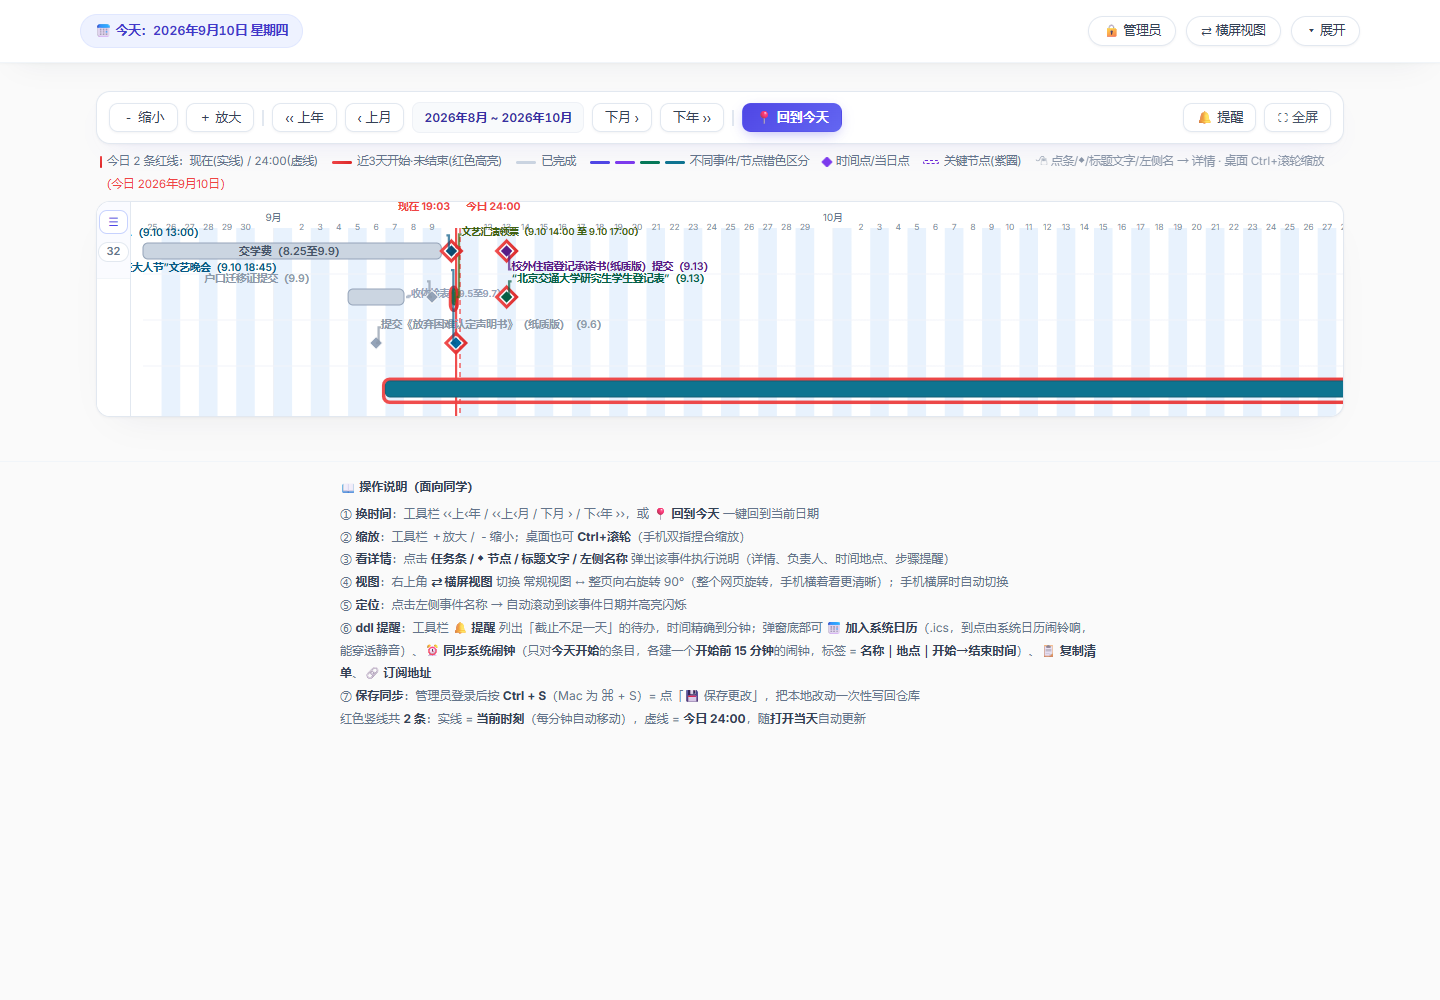
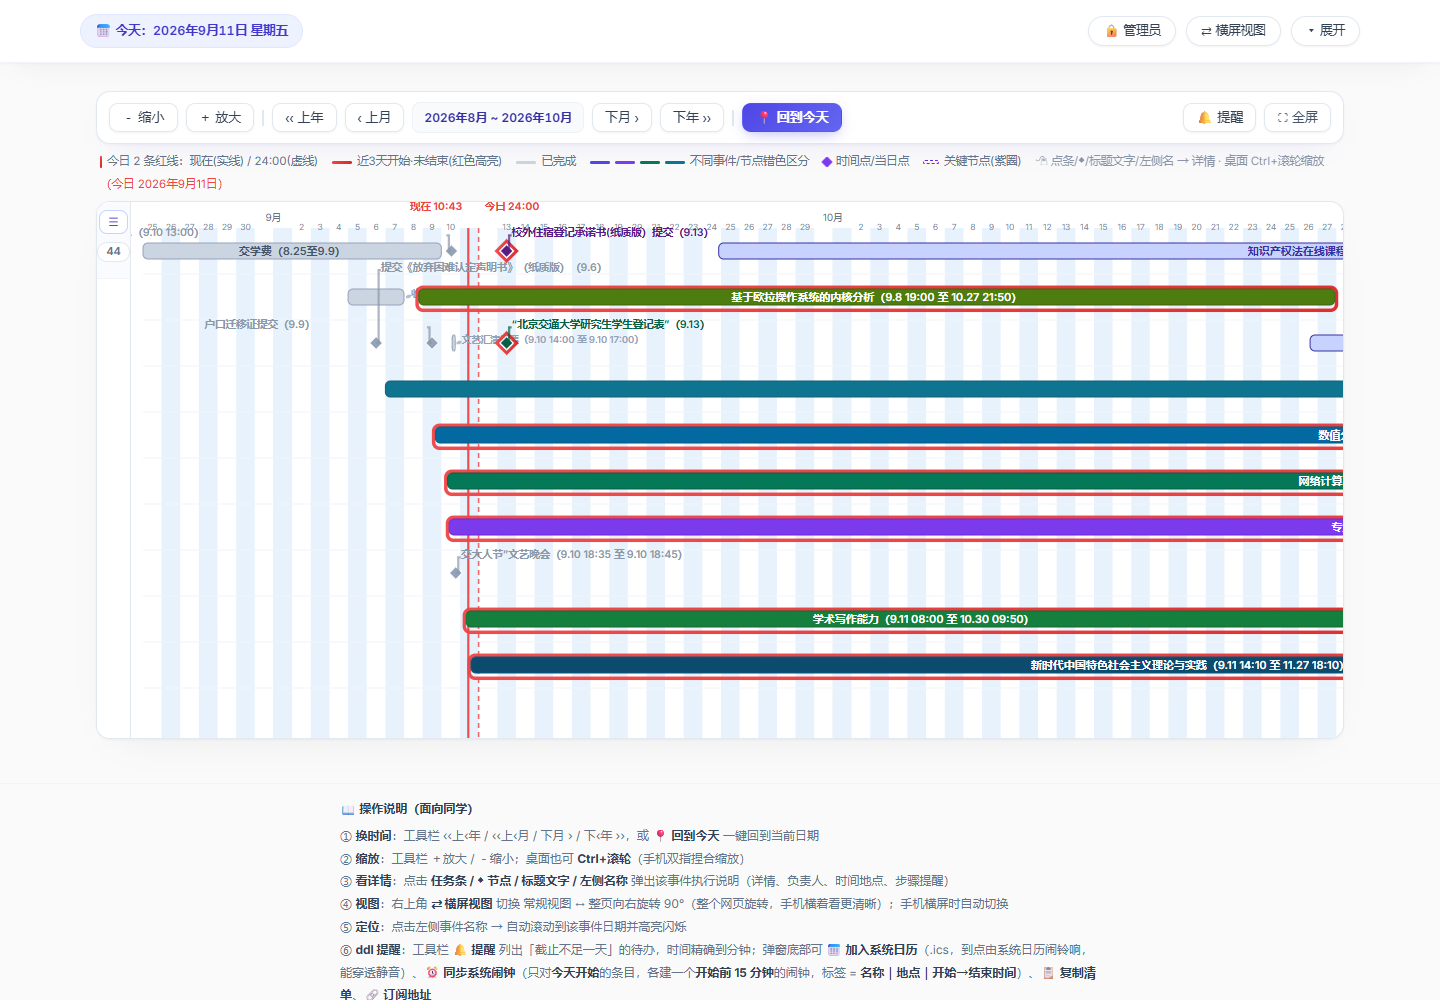
feat: 加入 2026 秋季学期课表（12 条课程事件）+ 课程表与待办提醒链路隔离（v29）
数据（9.7 为第 1 教学周周一；第 N 周周一 = 9.7 + (N−1)×7 天）：
- gantt.md 新增 section 课程表(2026秋季学期)，12 条 k1…k12，
  每门课按「星期几 + 节次」拆条，连堂的第 4-5 节 / 第 6-7 节合为一条，条形跨越上课周次。
- js/events.js 新增对应 12 条详情（课程号+课序号 / 时间要求 / 地点 / 任课教师 / 备注）。
- 课表原文中「周一第 6 节为第 09-11 周、第 7 节为第 09-10 周」的不一致按原文保留，未擅自修正，
  已在两条 tips 里注明。

隔离（课程表不是「截止待办」）：
- tools/build-deadlines.js 与 js/viewer.js 各加 isCourseTask()：section 名含「课程表」的条目
  不进 deadlines.json / deadlines.ics / 页面「🔔 提醒」/ 通道 C 闹钟。否则会产出
  「⏰ 截止：<课程名>」（ics 侧被压成结束前 30 分钟的假截止），并淹没今日闹钟清单。
  过滤口径两处必须同时改（已写入 README 与 gantt.md 注释）。

测试：
- test/unit.js：section 数 8→9；新增 [9b] 课程表与提醒链路隔离（3 项）；
  blocksOf 断言改为「班务 7 条 + 课表 12 条」；
  顺手修掉 3 处「数据过期式假红」——b2/b6 的断言原先钉死在会过期的条目上
  （b2 出窗、b6 被宽限期淘汰即假红），改为数据驱动／条件式。
- node test/unit.js：14 节 106 项全过；tools/verify-ui.js：12 节 84 项全过（本地 8899）。

diff --git a/js/events.js b/js/events.js
@@ -129,6 +129,178 @@
       sampleUrl: "",
       owners: owners([])
     },
+    // ===== 2026 秋季学期课程表（与 gantt.md 的 section 课程表 一一对应） =====
+    // 口径：教学周第 1 周周一 = 2026-09-07；「第 N 周周一」= 9.7 + (N−1)×7 天。
+    // 每条 = 一门课的一个固定时段（星期几 + 节次），条形跨越该时段的上课周次。
+    // 课程条目不进入待办提醒链路（deadlines.json / deadlines.ics / 页面「🔔 提醒」）。
+    k1: {
+      short: "数据科学与知识工程(周二第1节)",
+      who: "选修本课程的同学（课程号 M510028B，课序号 02）",
+      when: "每周二 第1节 08:00-09:50；教学周 第9-16周（首次 11.03，末次 12.22）",
+      where: "海淀西校区 · 逸夫教学楼 YF305",
+      files: "任课教师：沈孟如",
+      steps: [],
+      stepImg: "",
+      attachments: [],
+      tips: "教学周第1周自 9.7（周一）起算；法定节假日停课/调课以研究生院通知为准。",
+      tipsImg: "",
+      sampleUrl: "",
+      owners: owners([])
+    },
+    k2: {
+      short: "数据科学与知识工程(周三第6节)",
+      who: "选修本课程的同学（课程号 M510028B，课序号 02）",
+      when: "每周三 第6节 19:00-20:50；教学周 第9-16周（首次 11.04，末次 12.23）",
+      where: "海淀西校区 · 逸夫教学楼 YF305",
+      files: "任课教师：沈孟如",
+      steps: [],
+      stepImg: "",
+      attachments: [],
+      tips: "教学周第1周自 9.7（周一）起算；法定节假日停课/调课以研究生院通知为准。",
+      tipsImg: "",
+      sampleUrl: "",
+      owners: owners([])
+    },
+    k3: {
+      short: "网络计算与边缘智能(周四第1节)",
+      who: "选修本课程的同学（课程号 M510029B，课序号 02）",
+      when: "每周四 第1节 08:00-09:50；教学周 第1-16周（首次 09.10，末次 12.24）",
+      where: "海淀西校区 · 思源楼 SY309",
+      files: "任课教师：高博",
+      steps: [],
+      stepImg: "",
+      attachments: [],
+      tips: "教学周第1周自 9.7（周一）起算；法定节假日停课/调课以研究生院通知为准。",
+      tipsImg: "",
+      sampleUrl: "",
+      owners: owners([])
+    },
+    k4: {
+      short: "学术写作能力(周五第1节)",
+      who: "选修本课程的同学（课程号 C410001B，课序号 01）",
+      when: "每周五 第1节 08:00-09:50；教学周 第1-8周（首次 09.11，末次 10.30）",
+      where: "海淀东校区 · 东区一教 DQ505",
+      files: "任课教师：刘海明",
+      steps: [],
+      stepImg: "",
+      attachments: [],
+      tips: "教学周第1周自 9.7（周一）起算；法定节假日停课/调课以研究生院通知为准。",
+      tipsImg: "",
+      sampleUrl: "",
+      owners: owners([])
+    },
+    k5: {
+      short: "专业英语(周四第2节)",
+      who: "选修本课程的同学（课程号 C410003B，课序号 01）",
+      when: "每周四 第2节 10:10-12:00；教学周 第1-16周（首次 09.10，末次 12.24）",
+      where: "海淀西校区 · 逸夫教学楼 YF411",
+      files: "任课教师：马雨萱",
+      steps: [],
+      stepImg: "",
+      attachments: [],
+      tips: "教学周第1周自 9.7（周一）起算；法定节假日停课/调课以研究生院通知为准。",
+      tipsImg: "",
+      sampleUrl: "",
+      owners: owners([])
+    },
+    k6: {
+      short: "自然辩证法(周一第4-5节)",
+      who: "选修本课程的同学（课程号 A209007B，课序号 08）",
+      when: "每周一 第4节 14:10-16:00、第5节 16:20-18:10（连堂）；教学周 第8-13周（首次 10.26，末次 11.30）",
+      where: "海淀西校区 · 思源楼 SY108",
+      files: "任课教师：赵绪涛",
+      steps: [],
+      stepImg: "",
+      attachments: [],
+      tips: "教学周第1周自 9.7（周一）起算；法定节假日停课/调课以研究生院通知为准。",
+      tipsImg: "",
+      sampleUrl: "",
+      owners: owners([])
+    },
+    k7: {
+      short: "新时代中国特色社会主义理论与实践(周五第4-5节)",
+      who: "选修本课程的同学（课程号 A209006B，课序号 10）",
+      when: "每周五 第4节 14:10-16:00、第5节 16:20-18:10（连堂）；教学周 第1-12周（首次 09.11，末次 11.27）",
+      where: "海淀西校区 · 逸夫教学楼 YF406",
+      files: "任课教师：张瑞霖",
+      steps: [],
+      stepImg: "",
+      attachments: [],
+      tips: "教学周第1周自 9.7（周一）起算；法定节假日停课/调课以研究生院通知为准。",
+      tipsImg: "",
+      sampleUrl: "",
+      owners: owners([])
+    },
+    k8: {
+      short: "数值分析I(周三第5节)",
+      who: "选修本课程的同学（课程号 C308102B，课序号 05）",
+      when: "每周三 第5节 16:20-18:10；教学周 第1-16周（首次 09.09，末次 12.23）",
+      where: "海淀西校区 · 思源楼 SY108",
+      files: "任课教师：孟祥云",
+      steps: [],
+      stepImg: "",
+      attachments: [],
+      tips: "教学周第1周自 9.7（周一）起算；法定节假日停课/调课以研究生院通知为准。",
+      tipsImg: "",
+      sampleUrl: "",
+      owners: owners([])
+    },
+    k9: {
+      short: "基于欧拉操作系统的内核分析(周二第6-7节)",
+      who: "选修本课程的同学（课程号 M510003B，课序号 01）",
+      when: "每周二 第6节 19:00-20:50、第7节 21:00-21:50（连堂）；教学周 第1-8周（首次 09.08，末次 10.27）",
+      where: "海淀东校区 · 东区一教 DQ505",
+      files: "任课教师：张健",
+      steps: [],
+      stepImg: "",
+      attachments: [],
+      tips: "教学周第1周自 9.7（周一）起算；法定节假日停课/调课以研究生院通知为准。",
+      tipsImg: "",
+      sampleUrl: "",
+      owners: owners([])
+    },
+    k10: {
+      short: "基于欧拉操作系统的内核分析(周一第6节)",
+      who: "选修本课程的同学（课程号 M510003B，课序号 01）",
+      when: "每周一 第6节 19:00-20:50；教学周 第9-11周（首次 11.02，末次 11.16）",
+      where: "海淀东校区 · 东区一教 DQ505",
+      files: "任课教师：张健",
+      steps: [],
+      stepImg: "",
+      attachments: [],
+      tips: "课表原文：周一第6节为第09-11周，同一天第7节为第09-10周（原文如此，未作改动）。",
+      tipsImg: "",
+      sampleUrl: "",
+      owners: owners([])
+    },
+    k11: {
+      short: "基于欧拉操作系统的内核分析(周一第7节)",
+      who: "选修本课程的同学（课程号 M510003B，课序号 01）",
+      when: "每周一 第7节 21:00-21:50；教学周 第9-10周（首次 11.02，末次 11.09）",
+      where: "海淀东校区 · 东区一教 DQ505",
+      files: "任课教师：张健",
+      steps: [],
+      stepImg: "",
+      attachments: [],
+      tips: "课表原文：周一第7节为第09-10周，同一天第6节为第09-11周（原文如此，未作改动）。",
+      tipsImg: "",
+      sampleUrl: "",
+      owners: owners([])
+    },
+    k12: {
+      short: "知识产权法(在线课程,周四第7节)",
+      who: "选修本课程的同学（课程号 A230005B，课序号 01）",
+      when: "每周四 第7节 21:00-21:50；教学周 第3-13周（首次 09.24，末次 12.03）",
+      where: "线上 · 雨课堂平台（第3-13周）",
+      files: "任课教师：外聘教师",
+      steps: [],
+      stepImg: "",
+      attachments: [],
+      tips: "课表备注：专:3-13周雨课堂平台线上上课。",
+      tipsImg: "",
+      sampleUrl: "",
+      owners: owners([])
+    },
     _roles: ROLES
   };
 });

diff --git a/test/unit.js b/test/unit.js
@@ -41,7 +41,7 @@ console.log('[1] gantt.md 解析');
 const code = readGanttMd();
 const model = Parser.parse(code);
 check(!!model && !!model.range, '解析成功，得到有效时间范围');
-check(model.sections.length === 8, '包含 8 个 section（实际 ' + model.sections.length + '）');
+check(model.sections.length === 9, '包含 9 个 section（实际 ' + model.sections.length + '）');
 check(model.all.length >= 25, '任务总数 >= 25（实际 ' + model.all.length + '）');
 const fatal = model.warnings.filter(w => /缺少有效日期|未能从代码中解析/.test(w));
 check(fatal.length === 0, '无致命告警（日期缺失/无法解析）');
@@ -183,8 +183,15 @@ const w25 = dj.items.filter(i => i.id === 't25')[0];
 check(!!w25 && w25.time === '17:00', '截止时刻精确到分钟 time=' + (w25 && w25.time));
 check(!!w25 && w25.window === '9.10 14:00 → 9.10 17:00', '起止文案分钟级 window=' + (w25 && w25.window));
 check(!!w25 && Date.parse(w25.dueAt) === Date.parse('2026-09-10T09:00:00Z'), 'dueAt = 北京时间 17:00 的绝对时刻');
+/* b2 的日期组件口径（数据侧，与时间无关） */
+const b2T = model.byId('b2');
+check(!!b2T && Parser.fmt(b2T.end) === '2026-09-09',
+  'b2 户口迁移证截止口径 = 日期组件的 2026-09-09（实际 ' + (b2T && Parser.fmt(b2T.end)) + '）');
+/* b2 是否落在提醒窗口内取决于当天日期（9.9 之后 1 天宽限即出窗），断言写成条件式，
+   否则这条会在 9.11 之后永久假红 —— 那是"数据过期"，不是回归 */
 const b2it = dj.items.filter(i => i.id === 'b2')[0];
-check(!!b2it && b2it.due === '2026-09-09', 'b2 户口迁移证截止口径 = 日期组件的 2026-09-09');
+check(!b2it || b2it.due === '2026-09-09',
+  'b2 若在提醒窗口内则 due 与日期组件一致（当前 ' + (b2it ? '在窗口内' : '已过宽限期，不在窗口内') + '）');
 const icsPath = path.join(ROOT, 'deadlines.ics');
 check(fs.existsSync(icsPath), 'deadlines.ics 已生成（可订阅的系统日历源）');
 if (fs.existsSync(icsPath)) {
@@ -194,6 +201,17 @@ if (fs.existsSync(icsPath)) {
   check(nEv === (icsTxt.match(/END:VEVENT/g) || []).length, 'VEVENT 开闭标签配平');
   check((icsTxt.match(/BEGIN:VALARM/g) || []).length === nEv * 2, '每条事件恰好 2 个 VALARM');
 }
+
+/* ---- 9b. 课程表条目不得进入待办提醒链路 ---- */
+console.log('[9b] 课程表与提醒链路隔离');
+const courseIds = model.sections.filter(s => /课程表/.test(s.name))
+  .reduce((a, s) => a.concat(s.tasks.map(t => t.id)), []);
+check(courseIds.length === 12, '甘特图含「课程表」section 且共 12 条（' + courseIds.join(',') + '）');
+check(courseIds.every(id => !dj.items.some(i => i.id === id)),
+  '课程表条目未进入 deadlines.json 提醒窗口（否则会显示「截止：<课程名>」）');
+const icsAll = fs.existsSync(icsPath) ? fs.readFileSync(icsPath, 'utf8') : '';
+check(courseIds.every(id => icsAll.indexOf('gantt-' + id + '@') < 0),
+  '课程表条目未进入 deadlines.ics 日历订阅源（否则会出现假「截止」事件）');
 
 /* ---- 10. 防误删闸门（过期快照体检） ---- */
 console.log('[10] 保存前的「过期快照」体检');
@@ -272,12 +290,22 @@ check(JSON.stringify(alarmIds) === JSON.stringify(dj.items.filter(i => i.startDa
   'alarmItems 与 items 的今日子集完全一致（不多不少）');
 check(dj.items.some(i => i.startDaysLeft !== 0) && dj.alarmItems.length < dj.items.length,
   '窗口内存在非今日/未填时刻的条目（共 ' + (dj.items.length - dj.alarmItems.length) + ' 条），均未进入 alarmItems —— 今天不会误建闹钟');
-/* startDaysLeft 必须按「开始日」算，否则今天开始、跨日结束的活动会被漏掉闹钟 */
-const cB6 = dj.items.filter(i => i.id === 'b6')[0];
-check(!!cB6 && cB6.startDaysLeft < cB6.daysLeft,
-  'startDaysLeft 按开始日计算（b6 8.25→9.9：startDaysLeft=' + (cB6 && cB6.startDaysLeft) + ' < daysLeft=' + (cB6 && cB6.daysLeft) + '）');
-check(!!cB6 && cB6.alarmExact === false, '未填开始时刻 → alarmExact=false（该条不应建闹钟）');
-check(!dj.alarmItems.some(i => i.alarmExact === false), '未填开始时刻的条目不会进入 alarmItems（b6/b2 等已被排除）');
+/* startDaysLeft 必须按「开始日」算，否则今天开始、跨日结束的活动会被漏掉闹钟。
+   原来把断言钉在 b6（8.25→9.9）上，9.9 一过它就出窗 → 断言变成"数据过期"式假红。
+   改为「取窗口内任一跨日条目」验证；窗口内全是同日条目时退化为验证相等。 */
+const cSpan = dj.items.filter(i => i.start !== i.due)[0];
+if (cSpan) {
+  check(cSpan.startDaysLeft < cSpan.daysLeft,
+    'startDaysLeft 按开始日计算（' + cSpan.id + ' ' + cSpan.start + '→' + cSpan.due + '：startDaysLeft=' +
+    cSpan.startDaysLeft + ' < daysLeft=' + cSpan.daysLeft + '）');
+} else {
+  check(dj.items.every(i => i.startDaysLeft === i.daysLeft),
+    '窗口内全为同日条目 → startDaysLeft === daysLeft（' + dj.items.length + ' 条）');
+}
+const cNotExact = dj.items.filter(i => i.startExact === false)[0];
+check(!!cNotExact && cNotExact.alarmExact === false,
+  '未填开始时刻 → alarmExact=false（' + (cNotExact && cNotExact.id) + '，该条不应建闹钟）');
+check(!dj.alarmItems.some(i => i.alarmExact === false), '未填开始时刻的条目不会进入 alarmItems');
 check(dj.items.every(i => i.alarmExact === i.startExact), 'alarmExact 与 startExact 同源');
 /* 跨零点：开始 00:05 → 闹钟落在前一天 23:50，靠 Date 自动跨日而不是手工借位 */
 const midnight = { start: new Date(2026, 8, 11), end: new Date(2026, 8, 11), startTime: '00:05', endTime: '00:05' };
@@ -336,8 +364,10 @@ check(kindOptions.length === 2 && !/value="crit"/.test(viewerSrc.slice(viewerSrc
 console.log('[13] 合并写回护栏（整份覆盖 → 合并）');
 /* 事故复现：远端有 b7、本页没有（浏览器用了缓存的旧 events.js）→ 合并后必须逐字保留 */
 const blocks = Admin.blocksOf(realSrc);
-check(Object.keys(blocks).sort().join(',') === 'b1,b2,b3,b4,b5,b6,b7',
-  'blocksOf 切出全部条目的原文块（' + Object.keys(blocks).join(',') + '）');
+const bkB = Object.keys(blocks).filter(k => /^b\d+$/.test(k)).sort();
+const bkK = Object.keys(blocks).filter(k => /^k\d+$/.test(k)).sort();
+check(bkB.join(',') === 'b1,b2,b3,b4,b5,b6,b7' && bkK.length === 12,
+  'blocksOf 切出全部条目的原文块（班务 ' + bkB.length + ' 条 + 课表 ' + bkK.length + ' 条）');
 check(blocks.b7.split('\n')[0].trim() === 'b7: {', '块首是条目行（' + blocks.b7.split('\n')[0].trim() + '）');
 check(blocks.b7.split('\n').pop().trim() === '},', '块尾是结束行「},」，切分边界正确');
 check(blocks.b7.indexOf('主校区西操场') > 0, 'b7 的原文块里带着地点');

diff --git a/js/viewer.js b/js/viewer.js
@@ -542,6 +542,15 @@
     /* 全部任务 */
     var tasksAll = model.all;
 
+    /* 课程表条目（section 名含「课程表」）只上图，不进待办提醒链路 ——
+       周期性上课不是「截止待办」：进入提醒面板会显示「<课程名> 截止」，
+       导出的 .ics 会变成「结束前 30 分钟」的假截止，通道 C 的今日闹钟清单也会被上课提醒淹没。
+       口径与构建端 tools/build-deadlines.js 的 isCourseTask() 一致（两处必须同时改）。 */
+    function isCourseTask(t) {
+      var sec = (t && secOfTask) ? secOfTask[t.id] : null;
+      return !!sec && /课程表/.test(sec.name || '');
+    }
+
     /* ---- 骨架 ---- */
     root.innerHTML =
       '<div class="gv-toolbar">' +
@@ -1505,6 +1514,7 @@
       for (var i = 0; i < model.all.length; i++) {
         var t = model.all[i];
         if (t.done) continue;
+        if (isCourseTask(t)) continue;      /* 课程表：只上图，不进待办提醒 */
         var leftMs = remLeftMs(t, now);
         if (leftMs == null || leftMs < 0 || leftMs > DAY) continue;
         out.push(t);
@@ -1742,6 +1752,7 @@
       var dayStart = dateOnly(now).getTime();
       return model.all.filter(function (t) {
         if (t.done || !t.end) return false;
+        if (isCourseTask(t)) return false;   /* 课程表：只上图，不导出为待办/日历 */
         var dl = remDeadlineOf(t);
         return dl != null && dl >= dayStart && dl <= horizon;
       });
@@ -1758,6 +1769,7 @@
       var doneIds = loadRemDone();
       return model.all.filter(function (t) {
         if (t.done || doneIds.indexOf(t.id) >= 0) return false;
+        if (isCourseTask(t)) return false;   /* 课程表：只上图，不建系统闹钟 */
         var sd = t.start || t.end;
         if (!sd || fmtYMD(sd) !== today || !remStartHM(t).exact) return false;
         var d = alarmAtOf(t);

diff --git a/tools/build-deadlines.js b/tools/build-deadlines.js
@@ -165,12 +165,21 @@ function build() {
     sec.tasks.forEach(function (t) { sectionOf[t.id] = sec.name; });
   });
 
+  /* 课程表（section 名含「课程表」）不是待办截止：
+     周期性上课若进入提醒/日历链路，会产出「⏰ 截止：<课程名>」这类语义错误的条目
+     ——课表条目跨越数周，ics 侧会被压成「结束前 30 分钟」的假截止；
+     而且课表条目会让「今天开始」的通道 C 闹钟清单被上课提醒淹没。
+     过滤口径须与网页端 js/viewer.js 的 isCourseTask() 保持一致（两处必须同时改）。 */
+  const COURSE_SECTION = /课程表/;
+  const isCourseTask = function (t) { return COURSE_SECTION.test(sectionOf[t.id] || ''); };
+
   const items = [];
   const icsItems = [];
 
   model.all.forEach(function (t) {
     if (!t.end) return;
     if (t.done) return;                     // 已完成不再提醒
+    if (isCourseTask(t)) return;            // 课程表：只上图，不进提醒/日历
 
     /* 起止时刻全部取自「编辑表单的日期/时刻组件」（即 gantt.md 里的 OO 段），精确到分钟 */
     const eh = dueHmOf(t);

diff --git a/index.html b/index.html
@@ -181,11 +181,11 @@
   </div>
 </div>
 
-<script src="./js/parser.js?v=28"></script>
-<script src="./js/events.js?v=28"></script>
-<script src="./js/ics.js?v=28"></script>
-<script src="./js/admin.js?v=28"></script>
-<script src="./js/viewer.js?v=28"></script>
+<script src="./js/parser.js?v=29"></script>
+<script src="./js/events.js?v=29"></script>
+<script src="./js/ics.js?v=29"></script>
+<script src="./js/admin.js?v=29"></script>
+<script src="./js/viewer.js?v=29"></script>
 <script>
   // 内置示例（仅当无法读取 gantt.md 时兜底，保证 file:// 双击也能看到效果）
   const SAMPLE_GANTT = `gantt

diff --git a/gantt.md b/gantt.md
@@ -7,8 +7,13 @@
 >
 > - 任务语法：`任务名 : 状态, id, 开始日期, 结束日期`；里程碑写法：`任务名 :milestone, id, 日期, 0d`
 > - 状态可选：`done` 已完成 / `active` 进行中 / `crit` 关键节点（也可组合）
-> - `id`（a1/b1/t1/m1…）用于「点击任务 → 弹详情」，详情数据见 `js/events.js`，请保持 id 稳定
+> - `id`（a1/b1/t1/m1/k1…）用于「点击任务 → 弹详情」，详情数据见 `js/events.js`，请保持 id 稳定
 > - 详情文案来自班级通知（表二·班群通知表），后续事务更新请在 js/events.js 里同步维护
+> - `section 课程表(…)` 是**本学期课表**（id `k1…k12`）：每门课按「星期几 + 节次」拆成一条，
+>   条形跨越该课的上课周次；`2026-09-07` 为第 1 教学周周一，第 N 周周一 = 9.7 + (N−1)×7 天。
+> - 课程表条目**不进入**待办提醒链路（`deadlines.json` / `deadlines.ics` / 页面「🔔 提醒」）——
+>   周期性上课不是「截止待办」。过滤口径：section 名含「课程表」，见 `tools/build-deadlines.js`
+>   与 `js/viewer.js` 的 `isCourseTask()`；两处必须同时改。
 
 ```mermaid
 gantt
@@ -31,6 +36,19 @@ gantt
     秋季学期教学(9.7至次年1.17) :t7, 2026-09-07, 2027-01-17
     元旦(2027.1.1) :milestone, m7, 2027-01-01, 0d
     期末考试周(1月上中旬,推测) :crit, t8, 2027-01-04, 2027-01-15
+    section 课程表(2026秋季学期,第1教学周自9.7起)
+    数据科学与知识工程(周二第1节 9-16周) :k1, 2026-11-03 08:00, 2026-12-22 09:50
+    数据科学与知识工程(周三第6节 9-16周) :k2, 2026-11-04 19:00, 2026-12-23 20:50
+    网络计算与边缘智能(周四第1节 1-16周) :k3, 2026-09-10 08:00, 2026-12-24 09:50
+    学术写作能力(周五第1节 1-8周) :k4, 2026-09-11 08:00, 2026-10-30 09:50
+    专业英语(周四第2节 1-16周) :k5, 2026-09-10 10:10, 2026-12-24 12:00
+    自然辩证法(周一第4-5节 8-13周) :k6, 2026-10-26 14:10, 2026-11-30 18:10
+    新时代中国特色社会主义理论与实践(周五第4-5节 1-12周) :k7, 2026-09-11 14:10, 2026-11-27 18:10
+    数值分析I(周三第5节 1-16周) :k8, 2026-09-09 16:20, 2026-12-23 18:10
+    基于欧拉操作系统的内核分析(周二第6-7节 1-8周) :k9, 2026-09-08 19:00, 2026-10-27 21:50
+    基于欧拉操作系统的内核分析(周一第6节 9-11周) :k10, 2026-11-02 19:00, 2026-11-16 20:50
+    基于欧拉操作系统的内核分析(周一第7节 9-10周) :k11, 2026-11-02 21:00, 2026-11-09 21:50
+    知识产权法在线课程(周四第7节 3-13周) :k12, 2026-09-24 21:00, 2026-12-03 21:50
     section 寒假与第二学期(2027春)
     学生寒假(1.18至2.28) :t9, 2027-01-18, 2027-02-28
     春季报到注册(2.27至2.28) :t10, 2027-02-27, 2027-02-28

diff --git a/README.md b/README.md
@@ -114,6 +114,13 @@ gantt
 > 例：`带时段的班会 :b, 2026-09-20 14:30, 2026-09-20 17:00`、`单日某个时刻 :c, 2026-09-21 09:00, 0d`。
 > 不带时刻的任务仍只写日期。管理员在「编辑」表单里可直接选开始/结束时刻。
 
+> **课程表条目（`section 课程表…`，id `k1…k12`）**：本学期课表按「星期几 + 节次」拆条（连堂的第 4-5 节、
+> 第 6-7 节合为一条），条形跨越该时段的上课**周次**。教学周第 1 周周一 = `2026-09-07`，
+> 第 N 周周一 = 9.7 + (N−1)×7 天。课程表**不进入待办提醒链路**
+> （`deadlines.json` / `deadlines.ics` / 页面「🔔 提醒」/ 通道 C 闹钟）——周期性上课不是「截止待办」，
+> 否则会出现「⏰ 截止：<课程名>」这类语义错误的日历事件。过滤口径 = section 名含「课程表」，
+> 见 `tools/build-deadlines.js` 与 `js/viewer.js` 的 `isCourseTask()`（**两处必须同时改**）。
+
 ### 管理员的编辑表单（三点口径）
 
 | 项 | 规则 |
